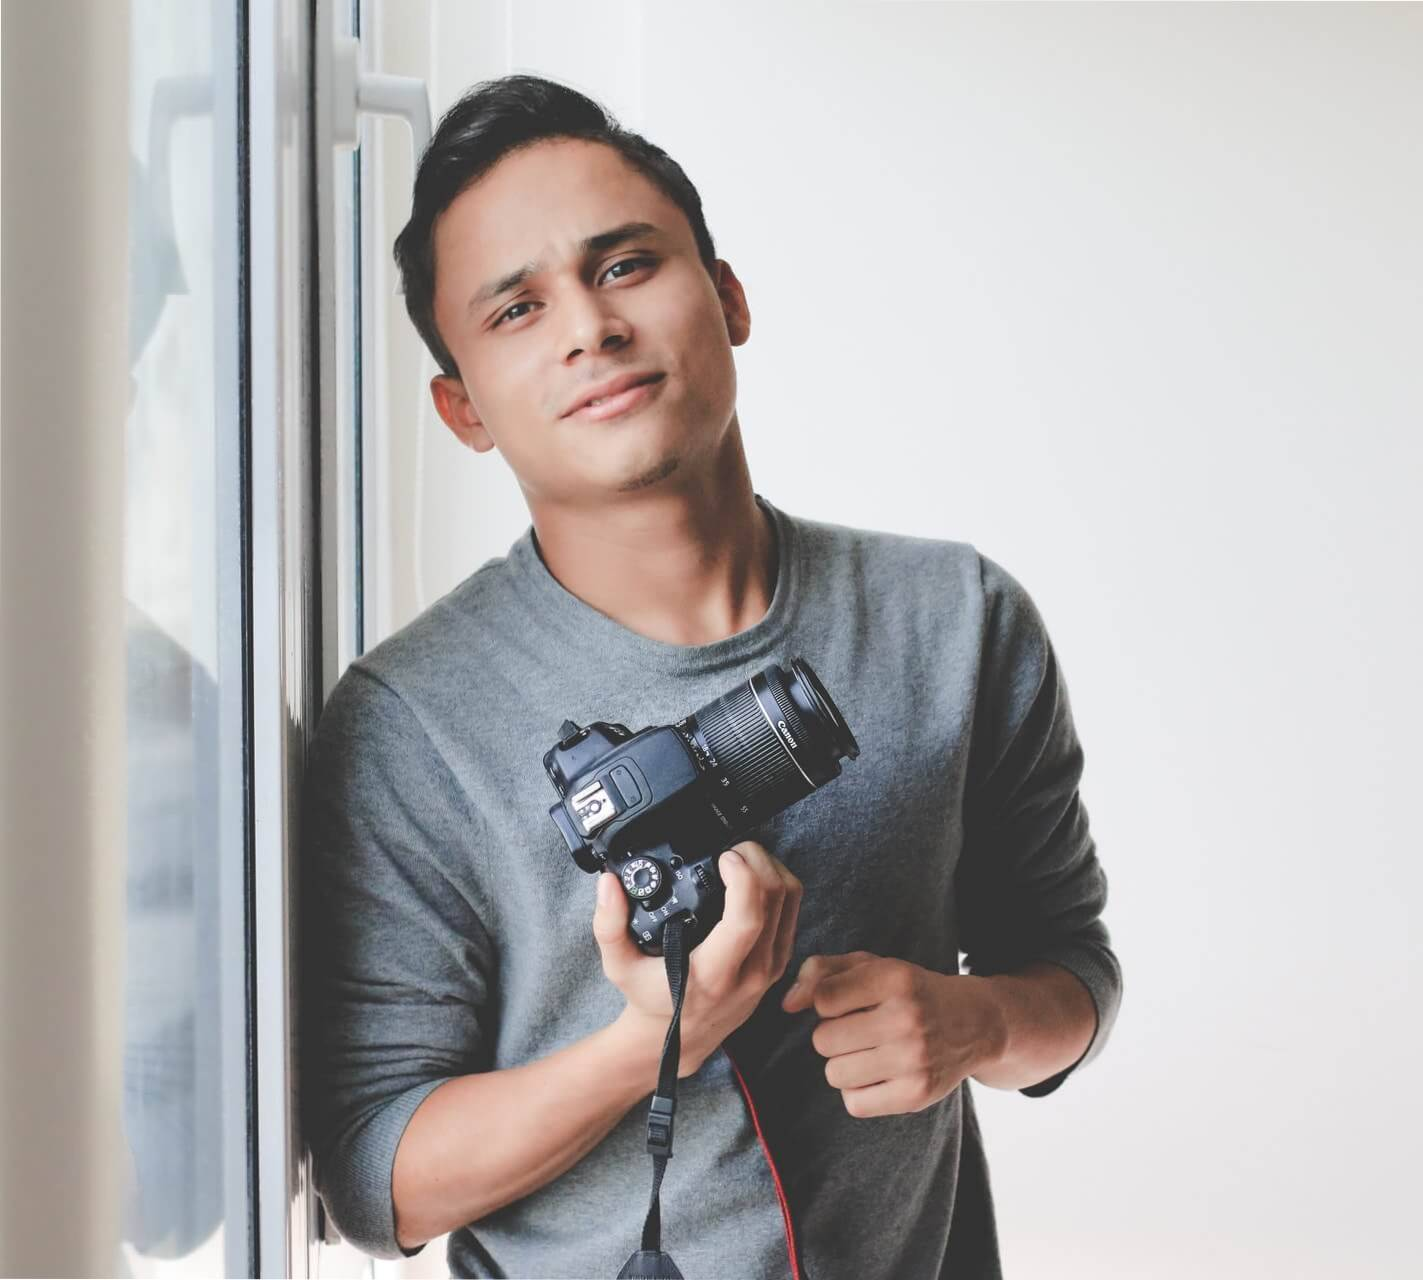
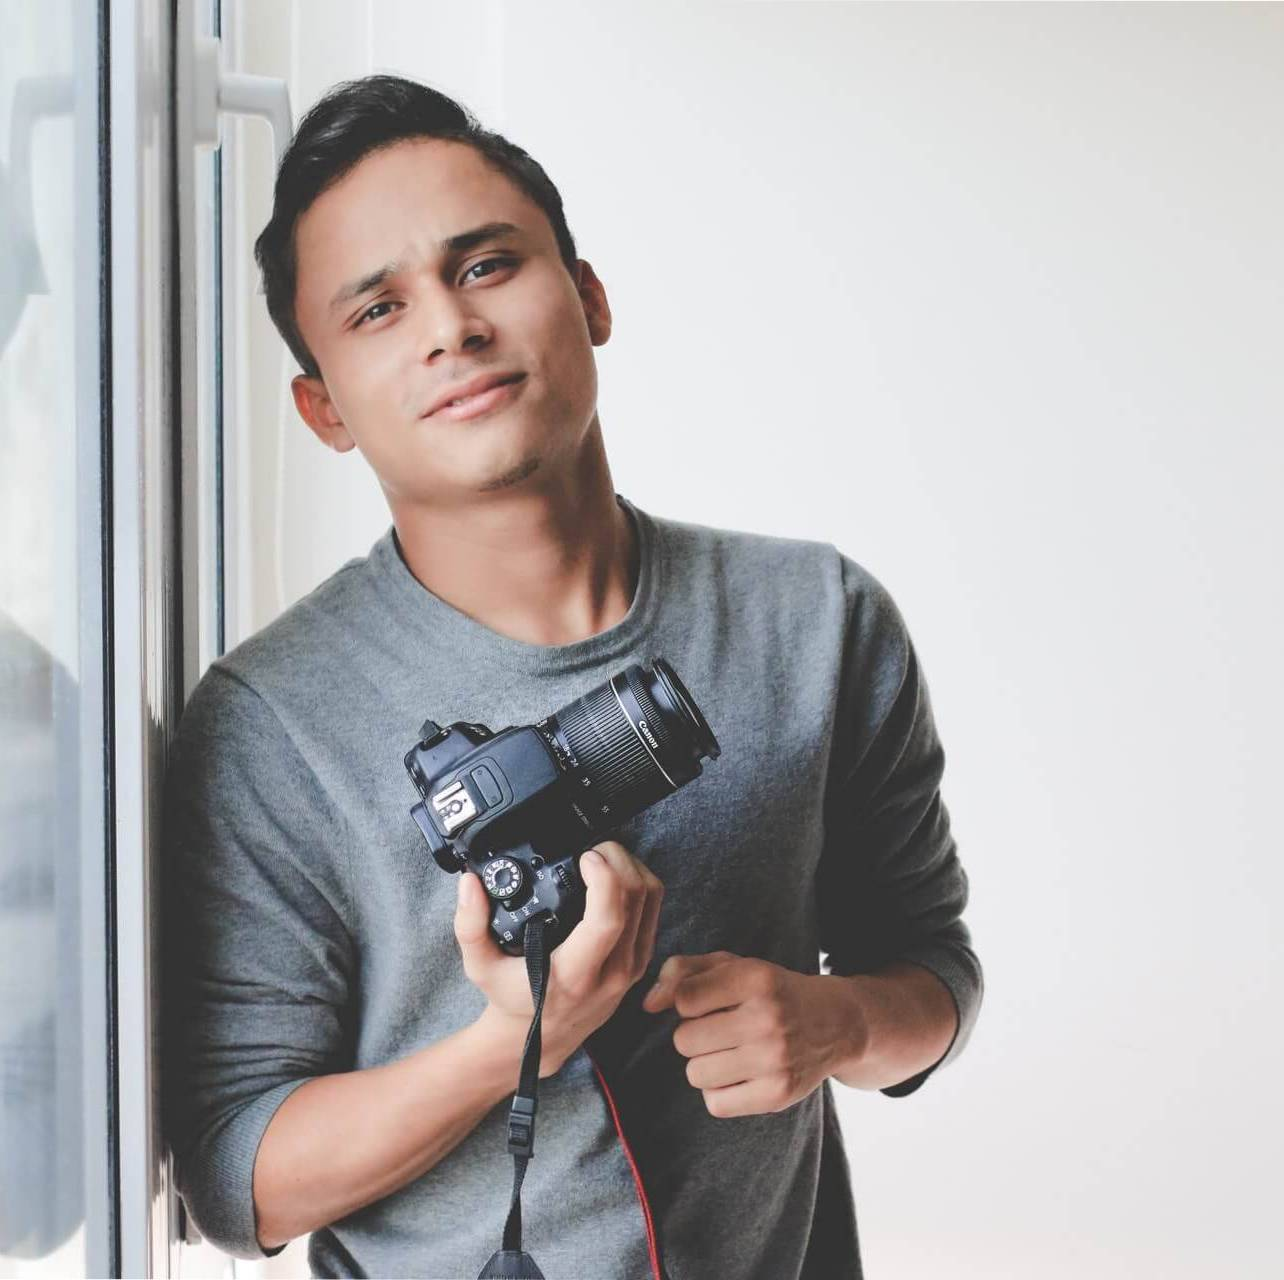
Dynamic blog post meta - added navigation

diff --git a/src/components/subpages/blog/blog-post/blogPostMeta.js b/src/components/subpages/blog/blog-post/blogPostMeta.js
@@ -1,12 +1,47 @@
 import React from 'react';
-import { Link } from 'gatsby';
+import { Link, graphql, useStaticQuery } from 'gatsby';
+import Img from 'gatsby-image';
+import classNames from 'classnames';
+import { blogPostNavigationType } from '../../../../types/blog/blogPostType';
 import blogPostMetaType from '../../../../types/blog/blogPostMetaType';
 import Social from '../../../common/social';
 
-// TODO: Remove after
-import authorImg from '../../../../images/subpages/about/about.jpg';
+// Query
+const query = graphql`
+  query BlogPostMetaQuery {
+    blogPostMetaAuthor: allFile(
+      filter: {
+        internal: { mediaType: { eq: "text/markdown" } }
+        sourceInstanceName: { eq: "markdown-data" }
+        relativeDirectory: { regex: "/subpages/blog/author/" }
+        name: { eq: "author_info" }
+      }
+    ) {
+      nodes {
+        childMarkdownRemark {
+          frontmatter {
+            id
+            name
+            image {
+              childImageSharp {
+                fixed(width: 152, height: 152, quality: 100) {
+                  ...GatsbyImageSharpFixed
+                }
+              }
+            }
+          }
+          html
+        }
+      }
+    }
+  }
+`;
 
-const BlogPostMeta = ({ tags }) => {
+const BlogPostMeta = ({ tags, prev, next }) => {
+  const data = useStaticQuery(query);
+  const blogPostMetaAuthor =
+    data.blogPostMetaAuthor.nodes[0].childMarkdownRemark;
+
   return (
     <footer className="blog-post-meta">
       <ul className="blog-post-meta-tags">
@@ -25,27 +60,27 @@ const BlogPostMeta = ({ tags }) => {
       <div className="blog-post-meta-author">
         <div className="blog-post-meta-author__wrapper">
           <div className="blog-post-meta-author-image">
-            <img
-              src={authorImg}
-              alt="Byron Wix"
+            <Img
+              fixed={blogPostMetaAuthor.frontmatter.image.childImageSharp.fixed}
               className="blog-post-meta-author-image__img"
+              alt={`${blogPostMetaAuthor.frontmatter.name} portrait`}
             />
           </div>
 
           <div className="blog-post-meta-author__info">
-            <h3 className="blog-post-meta-author__name">Byron Wix</h3>
+            <h3
+              className="blog-post-meta-author__name"
+              // eslint-disable-next-line react/no-danger
+              dangerouslySetInnerHTML={{
+                __html: blogPostMetaAuthor.frontmatter.name,
+              }}
+            />
 
-            <div className="blog-post-meta-author__bio">
-              <p>
-                Tart chocolate powder gingerbread carrot cake croissant jujubes
-                apple pie. Dragée apple pie chocolate bar powder cookie bonbon
-                cookie muffin. Cookie jelly-o cupcake caramels caramels cotton
-                candy gummies lemon drops. Wafer jelly-o pastry soufflé cake
-                lollipop. Dragée tart gummies muffin carrot cake tart tiramisu
-                cake. Gummies soufflé icing. Lemon drops icing sweet roll
-                pudding.
-              </p>
-            </div>
+            <div
+              className="blog-post-meta-author__bio"
+              // eslint-disable-next-line react/no-danger
+              dangerouslySetInnerHTML={{ __html: blogPostMetaAuthor.html }}
+            />
 
             <div className="blog-post-meta-author__social">
               <Social />
@@ -54,30 +89,44 @@ const BlogPostMeta = ({ tags }) => {
         </div>
       </div>
 
-      <div className="blog-post-meta-controls">
-        <div className="blog-post-meta-controls__control">
-          <span className="blog-post-meta-controls__subheading">
-            Previous post
-          </span>
+      <div
+        className={classNames('blog-post-meta-controls', {
+          'blog-post-meta-controls--right': !prev,
+        })}
+      >
+        {prev && (
+          <div className="blog-post-meta-controls__control">
+            <span className="blog-post-meta-controls__subheading">
+              Previous post
+            </span>
 
-          <h4 className="blog-post-meta-controls__heading">
-            <Link to="/" className="blog-post-meta-controls__link">
-              Cake snaps cheesecake pastry tiramisu
-            </Link>
-          </h4>
-        </div>
+            <h4 className="blog-post-meta-controls__heading">
+              <Link
+                to={`/blog/${prev.childMarkdownRemark.frontmatter.slug}`}
+                className="blog-post-meta-controls__link"
+              >
+                {prev.childMarkdownRemark.frontmatter.title}
+              </Link>
+            </h4>
+          </div>
+        )}
 
-        <div className="blog-post-meta-controls__control">
-          <span className="blog-post-meta-controls__subheading">
-            Following post
-          </span>
+        {next && (
+          <div className="blog-post-meta-controls__control">
+            <span className="blog-post-meta-controls__subheading">
+              Following post
+            </span>
 
-          <h4 className="blog-post-meta-controls__heading">
-            <Link to="/" className="blog-post-meta-controls__link">
-              Lollipop topping cake cheesecake gummi
-            </Link>
-          </h4>
-        </div>
+            <h4 className="blog-post-meta-controls__heading">
+              <Link
+                to={`/blog/${next.childMarkdownRemark.frontmatter.slug}`}
+                className="blog-post-meta-controls__link"
+              >
+                {next.childMarkdownRemark.frontmatter.title}
+              </Link>
+            </h4>
+          </div>
+        )}
       </div>
     </footer>
   );
@@ -85,6 +134,8 @@ const BlogPostMeta = ({ tags }) => {
 
 BlogPostMeta.propTypes = {
   ...blogPostMetaType,
+  prev: blogPostNavigationType,
+  next: blogPostNavigationType,
 };
 
 export default BlogPostMeta;

diff --git a/src/templates/blogPost.js b/src/templates/blogPost.js
@@ -1,13 +1,17 @@
+/* eslint-disable object-curly-newline */
 import React from 'react';
 import PropTypes from 'prop-types';
 import { graphql } from 'gatsby';
 import Layout from '../components/layout/layout';
 import SEO from '../components/common/seo';
 import BlogPost from '../components/subpages/blog/blog-post/blogPost';
-import blogPostType from '../types/blog/blogPostType';
+import blogPostType, {
+  blogPostNavigationType,
+} from '../types/blog/blogPostType';
 
-const BlogPostTemplate = ({ data }) => {
+const BlogPostTemplate = ({ data, pageContext }) => {
   const blogPostData = data.blogPost.nodes[0].childMarkdownRemark;
+  const { prev, next } = pageContext;
 
   return (
     <Layout>
@@ -18,7 +22,7 @@ const BlogPostTemplate = ({ data }) => {
 
       <section className="subpage blog-post-page">
         <div className="subpage__inner blog-post-page__inner">
-          <BlogPost data={blogPostData} />
+          <BlogPost data={blogPostData} prev={prev} next={next} />
         </div>
       </section>
     </Layout>
@@ -76,6 +80,8 @@ export const BlogPostTemplateQuery = graphql`
 BlogPostTemplate.propTypes = {
   pageContext: PropTypes.shape({
     slug: PropTypes.string.isRequired,
+    prev: blogPostNavigationType,
+    next: blogPostNavigationType,
   }).isRequired,
   data: PropTypes.shape({
     blogPost: PropTypes.shape({

diff --git a/src/components/subpages/blog/blog-sidebar/blogSidebarAuthor.js b/src/components/subpages/blog/blog-sidebar/blogSidebarAuthor.js
@@ -18,15 +18,15 @@ const query = graphql`
           frontmatter {
             id
             heading
+            teaser
             image {
               childImageSharp {
-                fluid {
-                  ...GatsbyImageSharpFluid
+                fixed(width: 210, height: 264, quality: 100) {
+                  ...GatsbyImageSharpFixed
                 }
               }
             }
           }
-          html
         }
       }
     }
@@ -41,7 +41,7 @@ const BlogSidebarAuthor = () => {
     <div className="blog-sidebar-author">
       <div className="blog-sidebar-author__image-wrapper">
         <Img
-          fluid={blogSidebarAuthor.frontmatter.image.childImageSharp.fluid}
+          fixed={blogSidebarAuthor.frontmatter.image.childImageSharp.fixed}
           className="blog-sidebar-author__image"
         />
       </div>
@@ -57,7 +57,9 @@ const BlogSidebarAuthor = () => {
       <div
         className="blog-sidebar-author__content"
         // eslint-disable-next-line react/no-danger
-        dangerouslySetInnerHTML={{ __html: blogSidebarAuthor.html }}
+        dangerouslySetInnerHTML={{
+          __html: blogSidebarAuthor.frontmatter.teaser,
+        }}
       />
     </div>
   );

diff --git a/src/components/subpages/blog/blog-post/blogPost.js b/src/components/subpages/blog/blog-post/blogPost.js
@@ -1,12 +1,15 @@
+/* eslint-disable object-curly-newline */
 import React from 'react';
 import PropTypes from 'prop-types';
-import blogPostType from '../../../../types/blog/blogPostType';
+import blogPostType, {
+  blogPostNavigationType,
+} from '../../../../types/blog/blogPostType';
 import BlogPostHeader from './blogPostHeader';
 import BlogPostContent from './blogPostContent';
 import BlogPostMeta from './blogPostMeta';
 import BlogPostComments from './blogPostComments';
 
-const BlogPost = ({ data }) => {
+const BlogPost = ({ data, prev, next }) => {
   const { frontmatter, html } = data;
 
   return (
@@ -22,7 +25,7 @@ const BlogPost = ({ data }) => {
       <div className="blog-post-container">
         <BlogPostContent content={html} />
 
-        <BlogPostMeta tags={frontmatter.tags} />
+        <BlogPostMeta tags={frontmatter.tags} prev={prev} next={next} />
 
         <BlogPostComments
           identifier={frontmatter.slug}
@@ -34,6 +37,8 @@ const BlogPost = ({ data }) => {
 };
 
 BlogPost.propTypes = {
+  prev: blogPostNavigationType,
+  next: blogPostNavigationType,
   data: PropTypes.shape(blogPostType).isRequired,
 };
 

diff --git a/gatsby-node.js b/gatsby-node.js
@@ -78,12 +78,14 @@ exports.createPages = async ({ actions, graphql, reporter }) => {
   /* Blog Posts */
 
   // Create single blog post
-  blogPosts.forEach(({ childMarkdownRemark: blogPost }) => {
+  blogPosts.forEach(({ childMarkdownRemark: blogPost }, index) => {
     createPage({
       path: `/blog/${blogPost.frontmatter.slug}`,
       component: blogPostTemplate,
       context: {
         slug: blogPost.frontmatter.slug,
+        prev: index === 0 ? null : blogPosts[index - 1],
+        next: index === blogPost.length - 1 ? null : blogPosts[index + 1],
       },
     });
   });

diff --git a/src/types/blog/blogPostType.js b/src/types/blog/blogPostType.js
@@ -1,5 +1,16 @@
 import { shape, string, number, arrayOf } from 'prop-types';
 
+// Blog Post Navigation Type
+export const blogPostNavigationType = shape({
+  childMarkdownRemark: shape({
+    frontmatter: shape({
+      id: string.isRequired,
+      title: string.isRequired,
+      slug: string.isRequired,
+    }).isRequired,
+  }).isRequired,
+}).isRequired;
+
 // Blog Post Type
 export default shape({
   frontmatter: shape({

diff --git a/src/styles/components/subpages/blog/blog-post/_blog-post-meta.scss b/src/styles/components/subpages/blog/blog-post/_blog-post-meta.scss
@@ -162,6 +162,10 @@
   }
 }
 
+.blog-post-meta-controls--right {
+  justify-content: flex-end;
+}
+
 .blog-post-meta-controls__control:not(:last-child) {
   margin-bottom: 4rem;
 }

diff --git a/src/markdown-data/subpages/blog/author/author_info.md b/src/markdown-data/subpages/blog/author/author_info.md
@@ -2,6 +2,13 @@
 id: '3978f96e-6d6f-4969-85ae-45c84eb16b1b'
 heading: 'About'
 image: './images/image.jpg'
+name: 'Byron Wix'
+teaser:
+  '<p>Halvah macaroon marzipan sugar plum powder cotton candy cheesecake.</p>'
 ---
 
-Halvah macaroon marzipan sugar plum powder cotton candy cheesecake.
+Tart chocolate powder gingerbread carrot cake croissant jujubes apple pie.
+Dragée apple pie chocolate bar powder cookie bonbon cookie muffin. Cookie
+jelly-o cupcake caramels caramels cotton candy gummies lemon drops. Wafer
+jelly-o pastry soufflé cake lollipop. Dragée tart gummies muffin carrot cake
+tart tiramisu cake. Gummies soufflé icing. Lemon drops icing sweet roll pudding.
